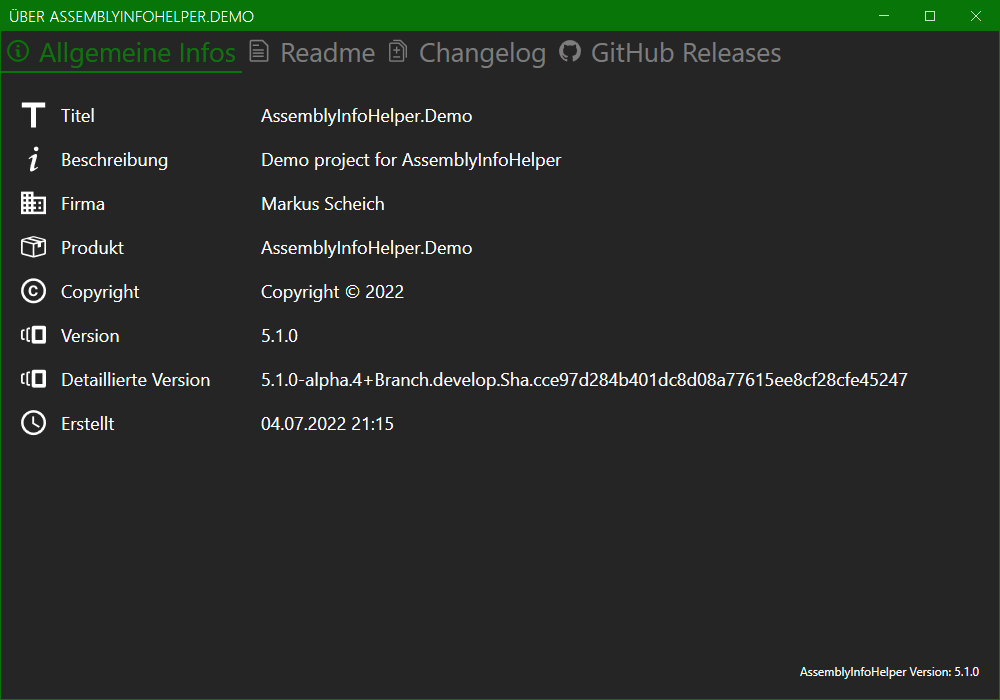
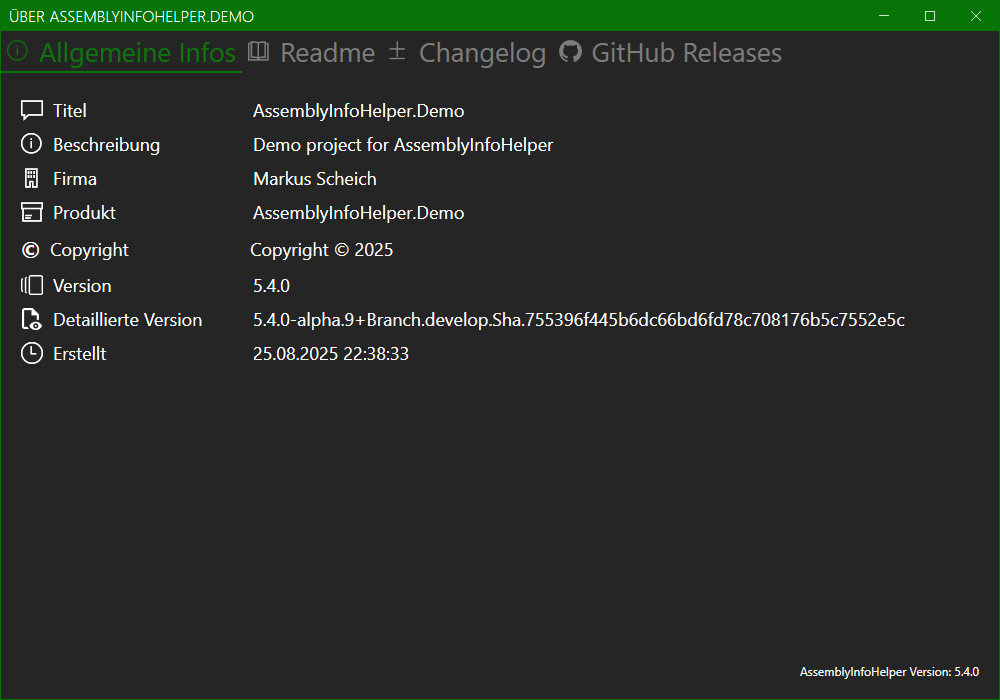
Updated Screenshots, Changelog and Readme

diff --git a/CHANGELOG.md b/CHANGELOG.md
@@ -1,95 +1,108 @@
 # AssemblyInfoHelper
 
+## [v5.4.0]
+
+* Fixed creation date display in WindowAssemblyInfo (StringFormat doesn't work with Label) (#16)
+* Removed MahApps IconPacks and use Segoe MDL2 Icons and embedded Icons instead, renamed resource language from de-DE to de
+* Removed target framework netcoreapp3.1
+* Removed some unused Nuget dependencies
+* Embed repository URL as assembly attribute using automatic build target
+
 ## [v5.3.1]
 
-- Bump Microsoft.Windows.Compatibility in AssemblyInfoHelper and AssemblyInfoHelper.Demo to fix a security vulnerability
+* Bump Microsoft.Windows.Compatibility in AssemblyInfoHelper and AssemblyInfoHelper.Demo to fix a security vulnerability
 
 ## [v5.3.0]
 
-- Added feature to persist files during update
+* Added feature to persist files during update
 
 ## [v5.2.2]
 
-- Updated MdXaml to 1.16.1 to improve Readme viewer, added MdXaml.Plugins, MdXaml.Html and MdXaml.Svg
+* Updated MdXaml to 1.16.1 to improve Readme viewer, added MdXaml.Plugins, MdXaml.Html and MdXaml.Svg
 
 ## [v5.2.1]
 
-- Fixed hanging application when closed during update (avoid Environment.Exit() call) (#12)
-- Fixed non-working links to repository URL and tags (#11)
+* Fixed hanging application when closed during update (avoid Environment.Exit() call) (#12)
+* Fixed non-working links to repository URL and tags (#11)
 
 ## [v5.2.0]
 
-- Corrected encoding for WebBrowserMarkdown control to show german special characters
-- Fixed non-working links in WebBrowserMarkdown control
+* Corrected encoding for WebBrowserMarkdown control to show german special characters
+* Fixed non-working links in WebBrowserMarkdown control
 
 ## [v5.1.0]
 
-- Removed support for AssemblyCulture attribute
-- Hide empty attribute values
-- Extended Readme
+* Removed support for AssemblyCulture attribute
+* Hide empty attribute values
+* Extended Readme
 
 ## [v5.0.1]
 
-- Added some missing localizations
+* Added some missing localizations
 
 ## [v5.0.0]
 
-- Added localization for UI
-- The library can now target net452, net472, netcoreapp3.1 and net6.0
-- Improved markdown visualization of Changelog and GitHub release notes
+* Added localization for UI
+* The library can now target net452, net472, netcoreapp3.1 and net6.0
+* Improved markdown visualization of Changelog and GitHub release notes
 
 ## [v4.3.1] - 19.06.2020 19:24
 
-- Updated MahApps.Metro to v2.0.1
-- Updated MahApps.Metro.IconPacks to v4.2.0
-- Small bug fixes
+* Updated MahApps.Metro to v2.0.1
+* Updated MahApps.Metro.IconPacks to v4.2.0
+* Small bug fixes
 
 ## [v4.3.0] - 04.05.2020 22:18
 
-- Update feature added
+* Update feature added
 
 ## [v4.2.1] - 13.12.2019 20:01
- 
-- Unnecessary dependencies removed
-- Color of Expander arrow in GitHub Releases Tab corrected (was always black)
+
+* Unnecessary dependencies removed
+* Color of Expander arrow in GitHub Releases Tab corrected (was always black)
 
 ## [v4.2.0] - 05.11.2019 22:04
 
-- Show release notes
-- AppInfoButton control added for simpler usage of the AssemblyInfoHelper
-- Switch added to disable notification of new versions
-- Show release type (major, minor, patch) in tag icon
+* Show release notes
+* AppInfoButton control added for simpler usage of the AssemblyInfoHelper
+* Switch added to disable notification of new versions
+* Show release type (major, minor, patch) in tag icon
 
 ## [v4.1.1] - 27.08.2019 21:39
 
-- GitHub release tab now doesn't crash without internet
-- AssemblyInfoHelperClass can also be used to get attributes from any assembly now
+* GitHub release tab now doesn't crash without internet
+* AssemblyInfoHelperClass can also be used to get attributes from any assembly now
 
 ## [v4.1.0] - 22.08.2019 22:05
 
-- New tab added for GitHub releases
-- Image display in Readme improved
+* New tab added for GitHub releases
+* Image display in Readme improved
 
 ## [v4.0.0] - 08.03.2019 16:39
 
-- Using MahApps.Metro to get a Metro look for the WPF window
+* Using MahApps.Metro to get a Metro look for the WPF window
 
 ## [v3.0.0] - 09.09.2018 23:03
 
-- This version contains a WPF window and should be used with WPF applications.
+* This version contains a WPF window and should be used with WPF applications.
 
 ## [v2.0.0] - 29.07.2018 14:32
+
 ### Removed
-- AssemblyKnownIssues attribute removed. Report known issues in README.md
-- AssemblyChangeLog attribute removed. Use the CHANGELOG.md file instead.
+
+* AssemblyKnownIssues attribute removed. Report known issues in README.md
+* AssemblyChangeLog attribute removed. Use the CHANGELOG.md file instead.
 
 ### Added
-- Use README.md file for description of the project.
-- Use CHANGELOG.md file for changelog of the project.
-- Markdig for displaying markdown syntax.
+
+* Use README.md file for description of the project.
+* Use CHANGELOG.md file for changelog of the project.
+* Markdig for displaying markdown syntax.
 
 ## [1.0.0]
+
 This version of the AssemblyInfoHelper uses
-- the AssemblyDescription attribute for the description of the project.
-- a new attribute "AssemblyKnownIssues" for known issues.
-- a new attribute "AssemblyChangeLog" for change log entries.
+
+* the AssemblyDescription attribute for the description of the project.
+* a new attribute "AssemblyKnownIssues" for known issues.
+* a new attribute "AssemblyChangeLog" for change log entries.

diff --git a/README.md b/README.md
@@ -7,7 +7,9 @@
 
 ## Purpose
 
-The **AssemblyInfoHelper** gets and displays the assembly attributes of the assembly that calls this functions.
+### Version Info Display
+
+Displays the assembly attributes of the assembly that calls this functions.
 This contains the following informations:
 - AssemblyTitle
 - AssemblyDescription
@@ -22,15 +24,27 @@ This contains the following informations:
 
 ![General Infos](https://github.com/M1S2/AssemblyInfoHelper/raw/master/Screenshots/AssemblyInfoWindow_GeneralInfos.PNG)
 
-The readme is get from the README.md file in the path given when creating the WindowAssemblyInfo or the application startup path.
+### Readme Viewer
+
+The Readme is get from the README.md file in the path given when creating the WindowAssemblyInfo or the application startup path.
+
+This page is hidden if not file is found.
 
 ![Readme](https://github.com/M1S2/AssemblyInfoHelper/raw/master/Screenshots/AssemblyInfoWindow_Readme.PNG)
 
-The changelog is get from the CHANGELOG.md file in the path given when creating the WindowAssemblyInfo or the application startup path.
+### Changelog Viewer
+
+The Changelog is get from the CHANGELOG.md file in the path given when creating the WindowAssemblyInfo or the application startup path.
+
+This page is hidden if not file is found.
 
 ![Changelog](https://github.com/M1S2/AssemblyInfoHelper/raw/master/Screenshots/AssemblyInfoWindow_Changelog.PNG)
 
-GitHub releases are taken from repository at the url given by the `GitHubRepo` attribute (see usage below). 
+### GitHub Release Viewer
+
+GitHub releases are taken from repository at the given URL (see usage below). 
+
+This page is hidden if not repository URL is assigned. This also disabled the complete update feature (see below).
 
 ![GitHub Releases](https://github.com/M1S2/AssemblyInfoHelper/raw/master/Screenshots/AssemblyInfoWindow_GitHubReleases.PNG)
 
@@ -44,12 +58,7 @@ You can also use the Package Manager console with: `PM> Install-Package Assembly
 
 ## Usage
 
-To show all releases from GitHub add the `GitHubRepo` attribute to the AssemblyInfo.cs file: 
-
-```csharp
-[assembly: AssemblyInfoHelper.GitHub.GitHubRepo("https://github.com/M1S2/AssemblyInfoHelper")]
-```
-
+### Show WindowAssemblyInfo
 
 The simplest way to show the WindowAssemblyInfo is to add a `AppInfoButton` control to the application. Everything is done inside this control.
 
@@ -68,6 +77,15 @@ AssemblyInfoHelper.WindowAssemblyInfo window = new AssemblyInfoHelper.WindowAsse
 window.ShowDialog();
 ```
 
+### GitHub Releases and Update Feature
+
+To show all releases from GitHub, the repository URL must be assigned.
+
+The easiest way is to set the `RepositoryUrl` in the .csproj file (see Add assembly attributes > New style Projects below).
+An embedded Nuget build target will make this setting available to the AssemblyInfoHelper.
+
+The older alternative is to add the `GitHubRepo` attribute to the AssemblyInfo.cs file or anywhere else in your application (see Add assembly attributes > Old style Projects below).
+
 ## Add assembly attributes
 
 ### New style projects
@@ -80,6 +98,7 @@ Add the following properties to a .csproj file to include assembly attributes:
 	<Company>CompanyText</Company>
 	<Product>ProductText</Product>
 	<Copyright>Copyright © 2022</Copyright>
+	<RepositoryUrl>https://github.com/M1S2/AssemblyInfoHelper</RepositoryUrl>
 </PropertyGroup>
 ```
 
@@ -92,6 +111,7 @@ Add the following lines to the AssemblyInfo.cs file to include assembly attribut
 [assembly: AssemblyProduct("ProductText")]
 [assembly: AssemblyCopyright("Copyright © 2022")]
 [assembly: AssemblyTrademark("TrademarkText")]
+[assembly: AssemblyInfoHelper.GitHub.GitHubRepo("https://github.com/M1S2/AssemblyInfoHelper")]
 ```
 
 ## Update Feature
@@ -104,7 +124,7 @@ The release binaries must be added to a GitHub release as asset. The following n
 *For binaries:*
 - %ProjectName%_Binaries.zip
 - %ProjectName%.zip
-- %ProjectName%_v1.0.0.zip
+- %ProjectName%_%Version%.zip (e.g. %ProjectName%_v1.0.0.zip)
 - bin.zip
 
 *For installer:*
@@ -136,5 +156,5 @@ If the file doesn't exist, it is simply not persisted and no warning or error is
 
 ### Temporary folder used by the update feature
 
-The %AppData%\Local\%ProjectName% folder is used to temporary save the downloaded release. Also the files that should be persisted are saved here.
+The %AppData%\Local\\%ProjectName% folder is used to temporary save the downloaded release. Also the files that should be persisted are saved here.
 Afer the update was finished, the folder content is deleted. Only the Updater.exe remains because it can't delete itself.
